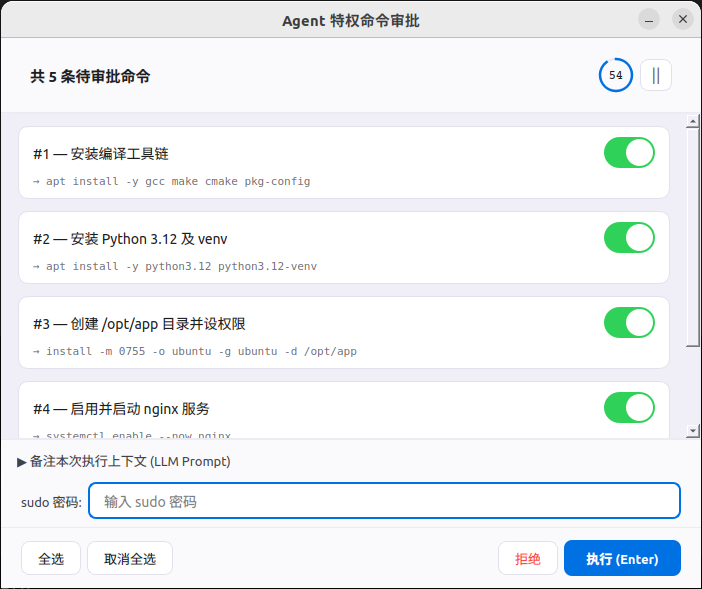
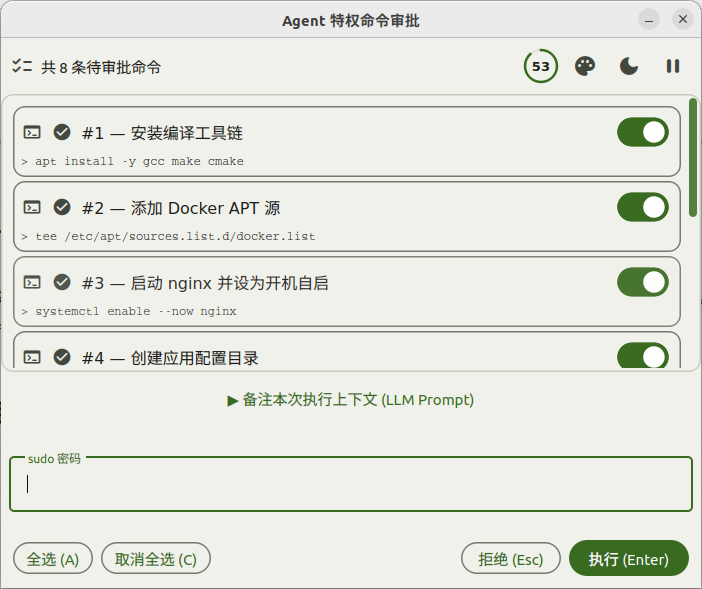
docs: update GUI screenshot

diff --git a/README.md b/README.md
@@ -28,7 +28,7 @@ AI Agent 在执行任务时经常需要 root 权限 — 装软件包、管理系
 **agent-sudo** 解决了这个问题：Agent 把需要特权的命令排进队列，然后弹出一个 GUI 窗口供人类查看、勾选、审批。一条命令都不漏，一条命令都不多。
 
 <p align="center">
-  <img src="imgs/agent-sudo-gui-v2.png" alt="agent-sudo GUI" width="600" />
+  <img src="imgs/agent-sudo-gui.png" alt="agent-sudo GUI" width="600" />
 </p>
 
 ## 为什么不用 pkexec / sudo？
@@ -271,7 +271,7 @@ agent-sudo/
 ├── lang/                        # 7 种语言 JSON 文件（zh 为内置默认）
 │   ├── en.json / ja.json / ko.json / fr.json / de.json / es.json / pt.json
 ├── imgs/
-│   └── agent-sudo-gui-v2.png    # GUI 截图
+│   └── agent-sudo-gui.png    # GUI 截图
 ├── CMakeLists.txt               # CMake 构建配置
 ├── resources.qrc                # Qt 资源文件（字体 + 语言 JSON）
 ├── test_real_world.sh           # 端到端集成测试